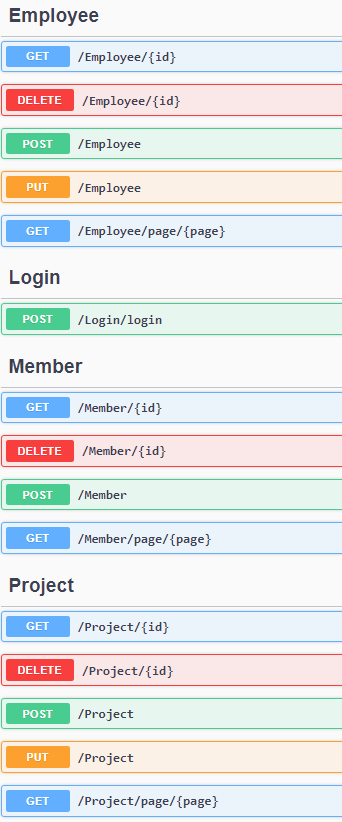
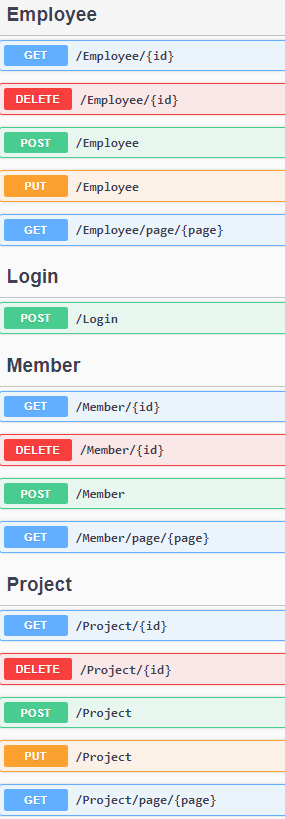
update endPoint image

Changed region(s): [[0.0, 0.0, 1.0, 0.6716], [0.0, 0.7021, 1.0, 1.0]]

diff --git a/desafio/Controllers/Login.cs b/desafio/Controllers/Login.cs
@@ -11,7 +11,6 @@ namespace desafio.Controllers;
 public class LoginController : ControllerBase{
 
     [HttpPost]
-    [Route("login")]
     [AllowAnonymous]
     public IActionResult Login([FromBody] UserModel model)
     {
